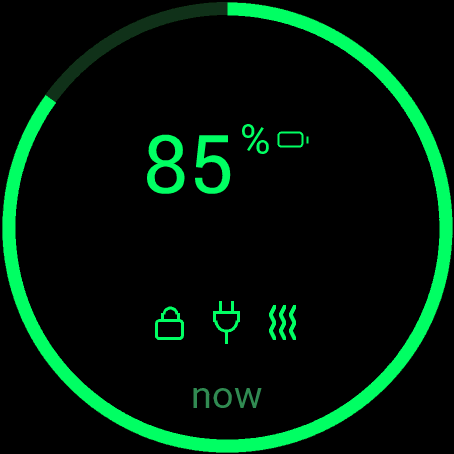
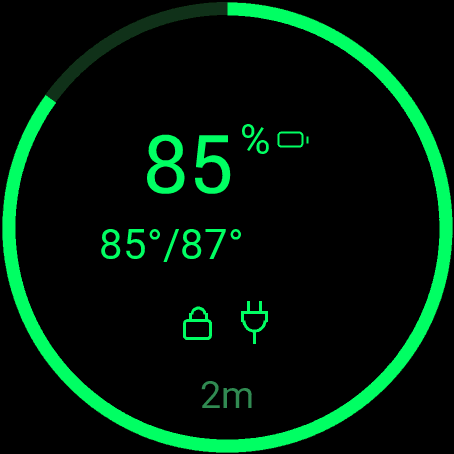
Docs: bring plan, README and comments in line with the 5 minute push
PLAN.md no longer says Lucid calls are on-demand only and marks #7 done; BridgeService comment points to Controller.startPush; protocol.md notes the -50..70 range for tin/tout; README describes the main screen in detail and has new main-screen and glance screenshots.

Changed region(s): [[0.3392, 0.6476, 0.6476, 0.7709], [0.2159, 0.4934, 0.5551, 0.5859], [0.4009, 0.8326, 0.5859, 0.9251]]

diff --git a/android/app/src/main/java/io/github/doubletwist13/orbit/BridgeService.kt b/android/app/src/main/java/io/github/doubletwist13/orbit/BridgeService.kt
@@ -8,7 +8,10 @@ import android.content.Intent
 import android.content.pm.ServiceInfo
 import android.os.IBinder
 
-/** Keeps the Connect IQ SDK registered so watch messages reach a backgrounded app. Makes no Lucid calls. */
+/**
+ * Keeps the Connect IQ SDK registered so watch messages reach a backgrounded app. Makes no Lucid calls itself; the
+ * 5 minute status push runs in [Controller.startPush] while this keeps the process alive.
+ */
 class BridgeService : Service() {
     override fun onCreate() {
         getSystemService(NotificationManager::class.java)

diff --git a/PLAN.md b/PLAN.md
@@ -133,8 +133,9 @@ screen size, so layouts should scale, but that is unverified.
   `INCOMING_MESSAGE` broadcast never fires (the SDK registers it at runtime, and delivery needs a prior bound-service
   registration). A `connectedDevice` foreground service that only keeps the SDK registered works: with the app swiped
   away and the screen off, a watch tap reached the phone and the reply came back (about 0.4 s foreground, 1.7 s
-  background; one sample each). The service holds an idle BLE link and makes NO Lucid calls, so Lucid traffic stays
-  on-demand. Needs `FOREGROUND_SERVICE_CONNECTED_DEVICE` plus `CHANGE_NETWORK_STATE` (the type's prerequisite) and a
+  background; one sample each). The service holds an idle BLE link and makes NO Lucid calls itself (the 5 minute
+  status push below runs in `Controller`, which the service keeps alive). Needs `FOREGROUND_SERVICE_CONNECTED_DEVICE`
+  plus `CHANGE_NETWORK_STATE` (the type's prerequisite) and a
   runtime `POST_NOTIFICATIONS` prompt (asked on first launch; declining only hides the notification); persistent
   "Watch link active" notification (min importance). Decided against a service on/off switch (too easy to hit by
   accident, and logging out already stops car control) and against prompting for "unrestricted" battery use (the
@@ -142,13 +143,15 @@ screen size, so layouts should scale, but that is unverified.
   service after the first unlock (tested; it arrived about 2 min after a slow boot); a force-stopped app gets no boot
   broadcast until opened by hand. The watch fails a request with `nolink` after 8 s of silence. Still untested:
   hours-long idle, batterystats.
-- **Lucid calls stay on-demand.** When the companion receives a watch message it fetches status once (a 4 s cache
-  coalesces repeats). After a command it wakes the car if needed, sends, then polls 3 times at 5 s and then every 10 s
-  until the expected state change (about 105 s cap); sustained 3-5 s polling triggered RESOURCE_EXHAUSTED (see
+- **Lucid calls are on-demand, plus one status push every 5 minutes (#7, below).** When the companion
+  receives a watch message it fetches status once (a 4 s cache coalesces repeats). After a command it
+  wakes the car if needed, sends, then polls 3 times at 5 s and then every 10 s until the expected state change (about
+  105 s cap); sustained 3-5 s polling triggered RESOURCE_EXHAUSTED (see
   `docs/research/phase1-lucid-api-findings.md`).
 - Command logic lives in an app-scoped `Controller`, so it outlives the screen and serves both the UI and the watch.
-- A foreground service with continuous polling would cost a persistent notification, radio wakeups and many more calls,
-  with a real risk of `RESOURCE_EXHAUSTED`. Revisit only if on-demand wake proves unreliable on some phones (OEM battery
+- Fast or continuous polling would cost radio wakeups and many more calls, with a real risk of
+  `RESOURCE_EXHAUSTED`. The one exception is the flat 5 minute status push: one small call per interval, with backoff
+  and a setting to turn it off. Revisit only if on-demand wake proves unreliable on some phones (OEM battery
   optimizers).
 - Rate-limit safety: single in-memory token, single-flight refresh, retries of 2/4/8 s on `RESOURCE_EXHAUSTED`, a short
   status cache.
@@ -175,8 +178,9 @@ Watch:
   device-side protection.
 
 ## Responsiveness
-- Watch draws instantly from cached state (`Application.Storage`), shows its age, and updates when the phone replies;
-  clear in-flight and error states (offline, auth expired, car asleep).
+- Watch draws instantly from cached state (`Application.Storage`), shows its age on the main screen (the glance
+  has none), and updates when the phone replies or pushes status; clear in-flight and error states (offline, auth
+  expired, car asleep).
 - Phone keeps the HTTP/2 connection and token warm during a session.
 - Keep the Monkey C app small for Venu 3 memory limits; use `Communications.transmit` with a `ConnectionListener` for
   delivery confirmation.
@@ -238,12 +242,12 @@ none of it adds Lucid calls.
   - Battery health (`battery_health` warning state and `battery_health_level`).
   - Min/Max Cell Temps (`min_cell_temp` and `max_cell_temp`).
   - Inside/outside temperature (`interior_temp` and `exterior_temp`), shown as a `21°/14°` line on the main screen
-    once regular updates exist (#7); until then it would show hours-old numbers.
+    (DONE with #7, since regular updates keep it from showing hours-old numbers).
   - Could be pulled into v2 cheaply: it is only extra reply fields plus one screen, and carries no write risk. The
     reason to wait is watch UI and message size, not API work. Revisit once the v1 UI is settled on real use.
-- **Next: regular status updates (#7).** Before this the glance only showed what the app cached when last opened.
-  Decided design: the phone fetches status on a flat 5 minute timer in its existing
-  foreground service and pushes the reply to the watch, which wakes a small background handler
+- **Regular status updates (#7), DONE 2026-10-26.** Before this the glance only showed what the app cached when last
+  opened. Design: the phone fetches status on a flat 5 minute timer in `Controller` (the app process the foreground
+  service keeps alive) and pushes the reply to the watch, which wakes a small background handler
   (`Background.registerForPhoneAppMessageEvent`) that writes it into the same `Application.Storage` entry the glance
   and the app already read. Why this way:
   - The Lucid API has no push or streaming call, so the interval is also the worst-case delay before the watch learns
@@ -253,8 +257,8 @@ none of it adds Lucid calls.
     4-6 s hit status 8; every 5 minutes is far below that). After a `rate` error it doubles the interval for a while.
   - Storage (32 KB per value) is not the limit. The glance (64 KB) and the background handler have small memory, so
     keep the saved state compact and the handler free of the app's big classes.
-  - It breaks the "no continuous polling" rule, so update `CLAUDE.md` with it, and give the phone app a setting to
-    turn it off. Measure the battery cost (the batterystats comparison) after a day.
+  - It breaks the old "no continuous polling" rule, so `CLAUDE.md` now says so, and the phone app has a switch to turn
+    it off. Still open: measure the battery cost (the batterystats comparison) after a day.
   - A "charging started" notification from the background handler (`Notifications.showNotification`, API 5.1) was
     tried and dropped: it did not show on the author's watch, and the official Lucid app already sends one. If it
     comes back, the phone should say whether to alert (a setting in the phone app), not the watch.

diff --git a/README.md b/README.md
@@ -10,19 +10,22 @@ Android companion app.
 ## Status
 
 Working end to end on the author's setup: a Pixel 10 Pro, a Garmin Venu 3, and one Lucid. From the watch you can see
-state of charge, locked/unlocked and plugged/charging, then lock, unlock, start or stop climate at a temperature you
-pick (in the watch's own units), and refresh. Unlock and climate changes ask for a confirm tap; lock does not.
+state of charge, locked/unlocked, plugged/charging and the inside and outside temperature, then lock, unlock, start
+or stop climate at a temperature you pick (in the watch's own units), and refresh. Unlock and climate changes ask for a confirm tap; lock does not.
 Commands wake a sleeping car first. See [PLAN.md](PLAN.md) for the roadmap.
 
 ## Using the watch app
 
-- **Main screen.** A ring round the edge and the big number show the charge, with a small battery icon beside it. Icons
-  under the number show what applies: a closed or open padlock (locked or unlocked), a plug when plugged in, a bolt
-  beside it while charging, and wavy lines while climate is on. The line at the bottom is how old the car's data is,
-  or what is in progress ("Unlocking...") or an error. The car only reports while awake, so after 30 minutes the
-  screen dims and the age turns amber; that is normal, not an error.
-- **Temperatures.** Under the charge number, `21°/14°` is the cabin and the outside air temperature, in the watch's
-  units.
+- **Main screen**, from the top down:
+  - **Charge.** A green ring round the edge fills clockwise from the top to match the charge, and the rest of the ring
+    stays dark. The big number in the middle is the same charge in percent, with a small battery icon beside it.
+  - **Temperatures.** Under the number, `21°/14°` is the cabin and the outside air temperature, in the watch's units
+    (`--` for one the car did not report, nothing at all if it reported neither).
+  - **State icons**, shown only when they apply: a closed or open padlock (locked or unlocked), a plug when plugged
+    in, a bolt beside it while charging, and wavy lines while climate is on.
+  - **Bottom line.** How old the car's data is (for example `2m`), or what is in progress ("Unlocking...") or an
+    error. The car only reports while awake, so after 30 minutes the whole screen dims and the age turns amber; that is
+    normal, not an error.
 - **Stays current.** About every 5 minutes, while the watch is connected, the phone fetches status and sends it to the
   watch, even while the app is closed, so the glance and the main screen open on recent data. Android can delay the
   timer while the phone sleeps. A switch in the phone app turns this off.
@@ -42,7 +45,10 @@ slower, and don't read the difference between those two runs as meaningful.
 ## Screenshots
 
 <p>
-  <img src="docs/images/watch-main.png" alt="Main screen: 85% charge, locked, plugged in, climate on" width="200">
+  <img src="docs/images/watch-glance.png" alt="Glance: 85% charge and locked" width="200">
+  <img src="docs/images/watch-main.png" width="200"
+       alt="Main screen: a ring and 85% charge, 85 and 87 degree cabin and outside temperatures, locked and plugged in
+       icons, and the data age of 2 minutes">
   <img src="docs/images/watch-actions.png" alt="Actions: lock, climate and refresh" width="200">
   <img src="docs/images/watch-lock.png" alt="Choose lock or unlock" width="200">
   <img src="docs/images/watch-climate.png" alt="Choose climate off or on, with the car's set point" width="200">
@@ -51,8 +57,8 @@ slower, and don't read the difference between those two runs as meaningful.
   <img src="docs/images/phone.jpg" alt="The Orbit Android app with lock, unlock, climate and refresh buttons" width="260">
 </p>
 
-Top: the watch app on a Venu 3 (main screen, actions, lock or unlock, climate off or on). Bottom: the phone app. The
-car's nickname is blurred out in the phone screenshot.
+Top: the watch app on a Venu 3 (glance, main screen, actions, lock or unlock, climate off or on). Bottom: the phone
+app. The car's nickname is blurred out in the phone screenshot.
 
 ## Limitations
 

diff --git a/docs/protocol.md b/docs/protocol.md
@@ -39,7 +39,7 @@ for an `id` has `pending` absent or empty.
 | `charge` | string | Charge state, e.g. `CABLE_CONNECTED`; `NOT_CONNECTED` when unplugged |
 | `hvac` | bool | Climate/precondition on |
 | `tset` | number | The car's cabin set point in Celsius (see below) |
-| `tin`, `tout` | number | Cabin and outside air temperature in Celsius; each omitted when the car reports none |
+| `tin`, `tout` | number | Cabin and outside air temperature in Celsius; each omitted when the car reports none or a value outside -50..70 |
 | `awake` | bool | Car awake |
 | `age` | int | Seconds since the car last reported (from `last_updated_ms`) |
 | `pending` | string | Short label while a command is in progress, e.g. `Waking`, `Unlocking`; absent when done |
